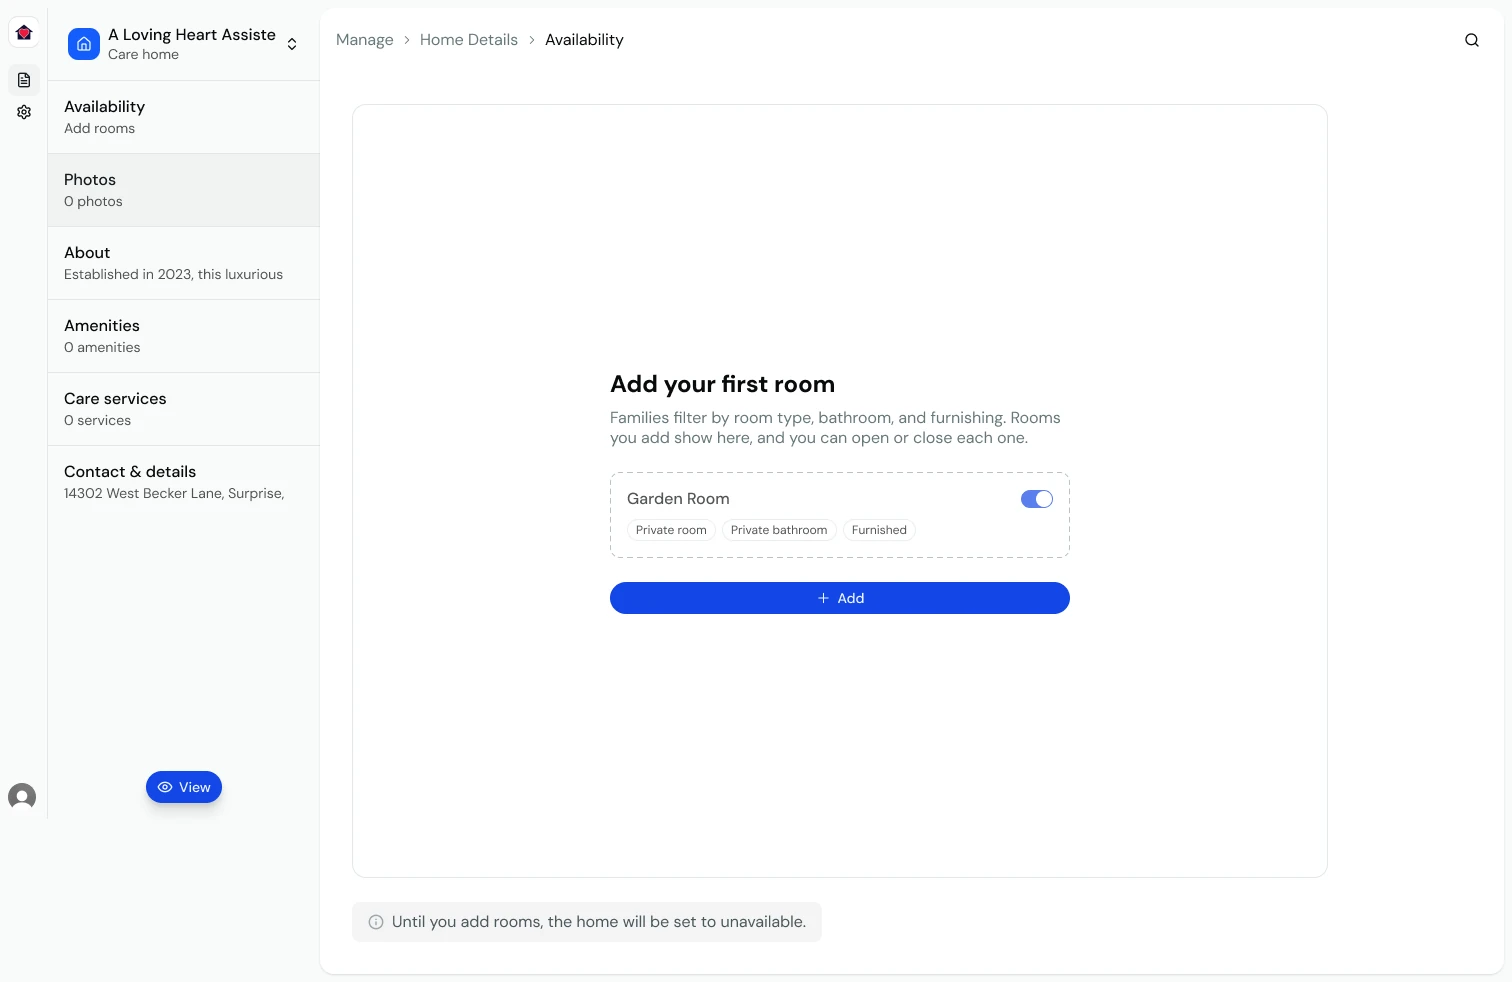
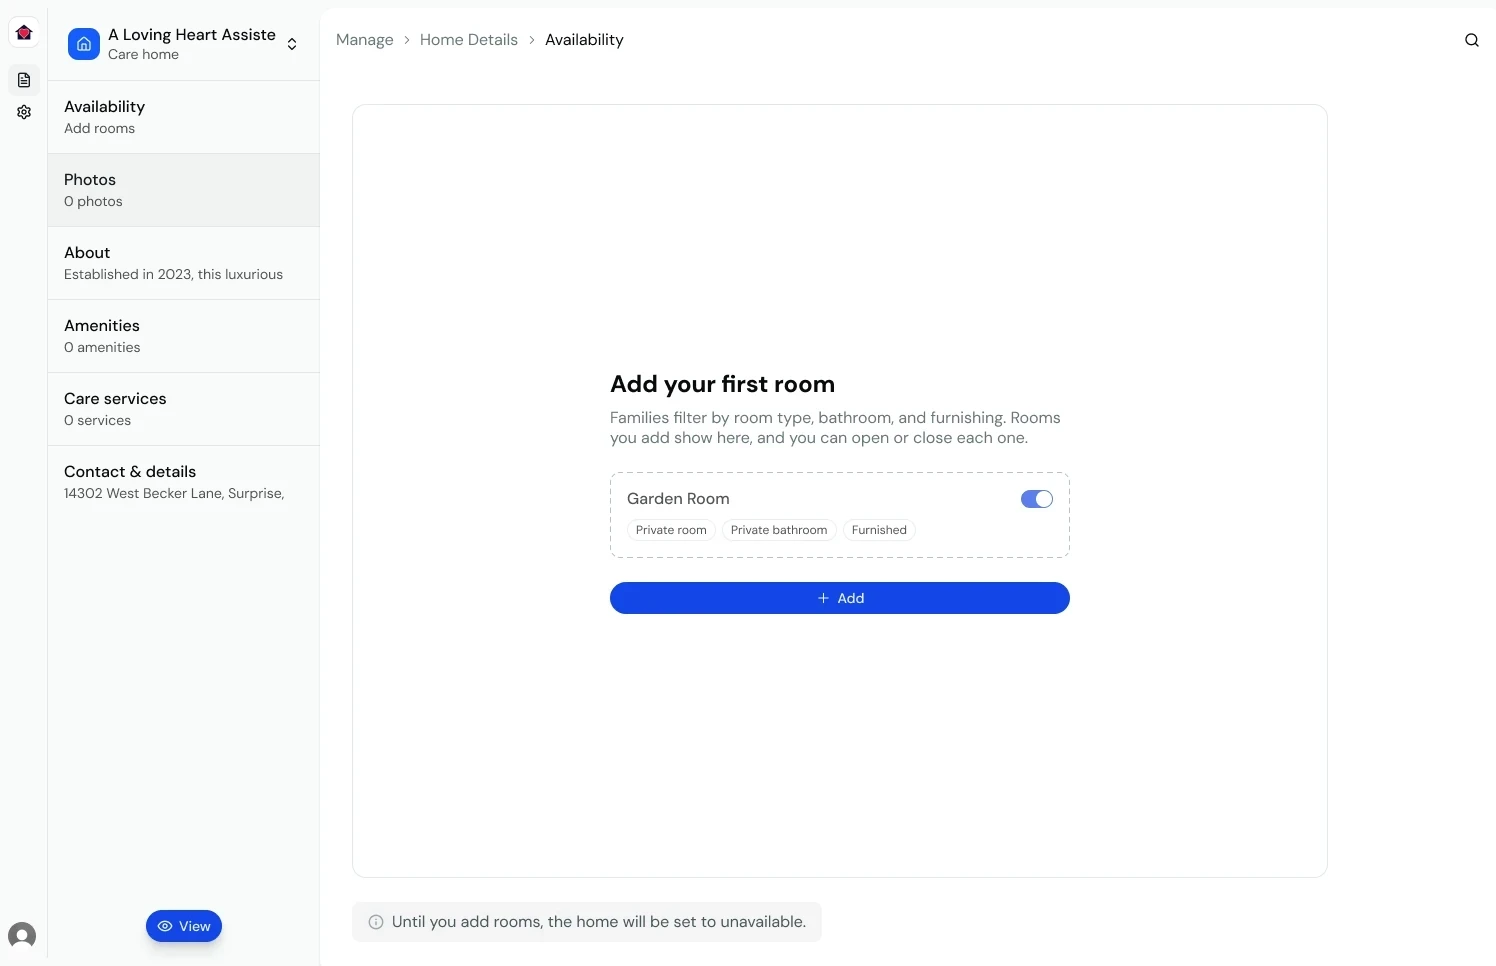
Sharpen small labels, fix the Availability screenshots, drag the step chips, annotate the fibo story (#249)
## What changed

**Labels**
- Page taglines ("Work" and the like) and the Back links use Geist, drop
the extra tracking, and sit at foreground/70 instead of the muddy muted
gray. Same fix the nav got.

**Availability screenshots** (home listing onboarding)
- Cropped the app's gray margin off the bottom and right, and pinned the
sidebar footer to the bottom so the rail no longer stops short.

**Step chips**
- On narrow screens a mouse can drag the chip row sideways, as a finger
already could. A drag doesn't pick the step it ends on.

**fibo story**
- Hand-drawn marks in fibo's own ink on the key phrases, drawn in on
scroll, plus a 🐇 chip on the mascot.
- Removed the Where to find him chapter.

🤖 Generated with [Claude Code](https://claude.com/claude-code)

---------

diff --git a/src/features/portfolio/components/fibo-story.tsx b/src/features/portfolio/components/fibo-story.tsx
@@ -1,6 +1,11 @@
 import type { ReactNode } from "react"
 
 import {
+  AnnotatedText,
+  AnnotatedTextChip,
+  type AnnotatedTextVariant,
+} from "@/components/fibo/annotated-text"
+import {
   Panel,
   PanelContent,
   PanelHeader,
@@ -56,6 +61,21 @@ function Plate({ name }: { name: keyof typeof PLATES }) {
   )
 }
 
+/** A hand-drawn mark in fibo's own ink, drawn in as it scrolls into view. */
+function Mark({
+  variant,
+  children,
+}: {
+  variant: AnnotatedTextVariant
+  children: ReactNode
+}) {
+  return (
+    <AnnotatedText variant={variant} animate>
+      {children}
+    </AnnotatedText>
+  )
+}
+
 function Chapter({
   title,
   aside,
@@ -98,14 +118,16 @@ export function FiboStory() {
 
       <Chapter aside={<Plate name="bunny" />}>
         <p>
-          For the past year I&apos;ve been studying the history of the golden
-          ratio, and whether it still holds up today as a blueprint for
-          proportional design. I wanted fibo&apos;s branding to tie in with my
-          personal brand, so I made what I&apos;ve learned its anchor.
+          For the past year I&apos;ve been studying the history of the{" "}
+          <Mark variant="wavy">golden ratio</Mark>, and whether it still holds
+          up today as a blueprint for proportional design. I wanted fibo&apos;s
+          branding to tie in with my personal brand, so I made what I&apos;ve
+          learned its anchor.
         </p>
         <p>
-          That&apos;s where fibo, my pixel bunny mascot, comes in. Learn more
-          about his lore below.
+          That&apos;s where fibo, my{" "}
+          <AnnotatedTextChip icon="🐇">pixel bunny mascot</AnnotatedTextChip>,
+          comes in. Learn more about his lore below.
         </p>
       </Chapter>
 
@@ -113,10 +135,12 @@ export function FiboStory() {
         <p>
           fibo is named after Leonardo of Pisa, the Italian mathematician better
           known as Fibonacci. The nickname came centuries after him, short for{" "}
-          <em>filius Bonacci</em>, &ldquo;son of Bonacci.&rdquo; He grew up
-          partly in North Africa, where his father worked as a merchant
-          official, and there he learned the Hindu-Arabic numerals that traders
-          were already using.
+          <Mark variant="underline">
+            <em>filius Bonacci</em>
+          </Mark>
+          , &ldquo;son of Bonacci.&rdquo; He grew up partly in North Africa,
+          where his father worked as a merchant official, and there he learned
+          the Hindu-Arabic numerals that traders were already using.
         </p>
         <p>
           In 1202 he published <em>Liber Abaci</em>, the &ldquo;Book of
@@ -124,7 +148,10 @@ export function FiboStory() {
           over Roman ones. Among its worked problems is a thought experiment
           about rabbits. Start with one newborn pair. Each pair takes a month to
           grow up, then has a new pair every month after that, and none of them
-          ever die. How many pairs are there after a year?
+          ever die.{" "}
+          <Mark variant="highlight">
+            How many pairs are there after a year?
+          </Mark>
         </p>
         <p>
           The answer grows into a famous sequence of numbers. Mathematicians in
@@ -142,11 +169,14 @@ export function FiboStory() {
       <Chapter title="The sequence">
         <ul>
           <li>Start with 1 and 1.</li>
-          <li>Add the last two numbers to get the next one.</li>
+          <li>
+            <Mark variant="underline">Add the last two numbers</Mark> to get the
+            next one.
+          </li>
           <li>1, 1, 2, 3, 5, 8, 13, 21, 34, 55, 89, 144, and on forever.</li>
           <li>
             Divide any number by the one before it and you get closer and closer
-            to 1.618, the golden ratio, φ.
+            to <Mark variant="circle">1.618</Mark>, the golden ratio, φ.
           </li>
         </ul>
       </Chapter>
@@ -159,27 +189,13 @@ export function FiboStory() {
           The golden ratio comes from nature. It&apos;s nature&apos;s own
           algorithm, and I&apos;m using it to build something mechanical. While
           making fibo I found an accidental contrast at the center of the
-          project: organic and mechanical, two opposites in one place.
+          project: <Mark variant="bracket">organic and mechanical</Mark>, two
+          opposites in one place.
         </p>
         <p>
           That&apos;s why the rabbit is pixel art. He&apos;s an animal, a part
-          of nature, rebuilt out of pixels.
+          of nature, <Mark variant="box">rebuilt out of pixels</Mark>.
         </p>
-      </Chapter>
-
-      <Chapter title="Where to find him">
-        <ul>
-          <li>
-            In the hero above, fibo builds himself up pixel by pixel, idles and
-            hops, and watches your pointer. Poke him and he flinches. Click too
-            fast and he hides behind his ears.
-          </li>
-          <li>The hero is a golden rectangle, cut on 0.618.</li>
-          <li>
-            fibo never draws a spiral. Spirals only appear where nature made
-            them, in photographs.
-          </li>
-        </ul>
       </Chapter>
     </Panel>
   )

diff --git a/src/features/doc/components/step-tabs.tsx b/src/features/doc/components/step-tabs.tsx
@@ -75,6 +75,43 @@ export function StepTabs({ children }: { children: ReactNode }) {
     }
   }
 
+  // A finger already swipes the chip row; a mouse drags it the same way. A
+  // drag that moved swallows the click it ends with, so it doesn't pick a step.
+  const drag = useRef<{ x: number; left: number; moved: boolean } | null>(null)
+  const dragged = useRef(false)
+
+  function onPointerDown(event: React.PointerEvent<HTMLDivElement>) {
+    const row = event.currentTarget
+    dragged.current = false
+    if (event.pointerType !== "mouse" || event.button !== 0) return
+    if (row.scrollWidth <= row.clientWidth) return
+    drag.current = { x: event.clientX, left: row.scrollLeft, moved: false }
+  }
+
+  function onPointerMove(event: React.PointerEvent<HTMLDivElement>) {
+    const state = drag.current
+    if (!state) return
+    const row = event.currentTarget
+    const dx = event.clientX - state.x
+    if (!state.moved && Math.abs(dx) > 4) {
+      state.moved = true
+      dragged.current = true
+      row.setPointerCapture(event.pointerId)
+    }
+    if (state.moved) row.scrollLeft = state.left - dx
+  }
+
+  function onPointerUp() {
+    drag.current = null
+  }
+
+  function onClickCapture(event: React.MouseEvent) {
+    if (!dragged.current) return
+    dragged.current = false
+    event.preventDefault()
+    event.stopPropagation()
+  }
+
   function onKeyDown(event: React.KeyboardEvent) {
     const moves: Record<string, number> = {
       ArrowDown: active + 1,
@@ -96,7 +133,12 @@ export function StepTabs({ children }: { children: ReactNode }) {
         aria-label="Steps"
         aria-orientation="vertical"
         onKeyDown={onKeyDown}
-        className="no-scrollbar flex gap-1.5 overflow-x-auto border-b border-line p-2 max-sm:[mask-image:linear-gradient(to_right,black_calc(100%-24px),transparent)] sm:flex-col sm:gap-0 sm:overflow-visible sm:border-r sm:border-b-0 sm:py-3"
+        onPointerDown={onPointerDown}
+        onPointerMove={onPointerMove}
+        onPointerUp={onPointerUp}
+        onPointerCancel={onPointerUp}
+        onClickCapture={onClickCapture}
+        className="no-scrollbar flex gap-1.5 overflow-x-auto overscroll-x-contain border-b border-line p-2 select-none max-sm:cursor-grab max-sm:active:cursor-grabbing max-sm:[mask-image:linear-gradient(to_right,black_calc(100%-24px),transparent)] sm:flex-col sm:gap-0 sm:overflow-visible sm:border-r sm:border-b-0 sm:py-3"
       >
         {steps.map((step, index) => {
           const current = index === active

diff --git a/src/features/review/components/deck.tsx b/src/features/review/components/deck.tsx
@@ -240,7 +240,7 @@ export function Deck({
         <div className="relative isolate mx-auto flex h-full max-w-4xl flex-col border-x border-line [--stage-top:calc(var(--header-height)+4rem)]">
           <header className="screen-line-bottom z-20 flex h-(--header-height) shrink-0 items-center justify-between gap-4 px-4">
             <Button
-              className="h-7 gap-2 border-none px-0 tracking-wider text-muted-foreground hover:text-foreground hover:no-underline"
+              className="h-7 gap-2 border-none px-0 text-foreground/70 hover:text-foreground hover:no-underline"
               variant="link"
               size="sm"
               nativeButton={false}

diff --git a/src/features/doc/components/doc-page.tsx b/src/features/doc/components/doc-page.tsx
@@ -250,7 +250,7 @@ export async function DocPage({
     <AnimationsPauseExempt>
       <div className="screen-line-bottom flex items-center justify-between p-2 pl-4">
         <Button
-          className="h-7 gap-2 border-none px-0 tracking-wider text-muted-foreground hover:text-foreground hover:no-underline"
+          className="h-7 gap-2 border-none px-0 text-foreground/70 hover:text-foreground hover:no-underline"
           variant="link"
           size="sm"
           nativeButton={false}

diff --git a/src/features/components/components/component-page-actions.tsx b/src/features/components/components/component-page-actions.tsx
@@ -91,7 +91,7 @@ export function ComponentPageActions({
   return (
     <div className="screen-line-bottom flex items-center justify-between p-2 pl-4">
       <Button
-        className="h-7 gap-2 border-none px-0 tracking-wider text-muted-foreground hover:text-foreground hover:no-underline"
+        className="h-7 gap-2 border-none px-0 text-foreground/70 hover:text-foreground hover:no-underline"
         variant="link"
         size="sm"
         nativeButton={false}

diff --git a/src/components/page-heading.tsx b/src/components/page-heading.tsx
@@ -28,7 +28,7 @@ export function PageHeadingTagline({
     <div
       data-slot="page-heading-tagline"
       className={cn(
-        "px-4 pb-2 font-heading text-sm/none font-medium tracking-wider text-muted-foreground",
+        "px-4 pb-2 font-sans text-sm/none font-medium text-foreground/70",
         className
       )}
       {...props}
